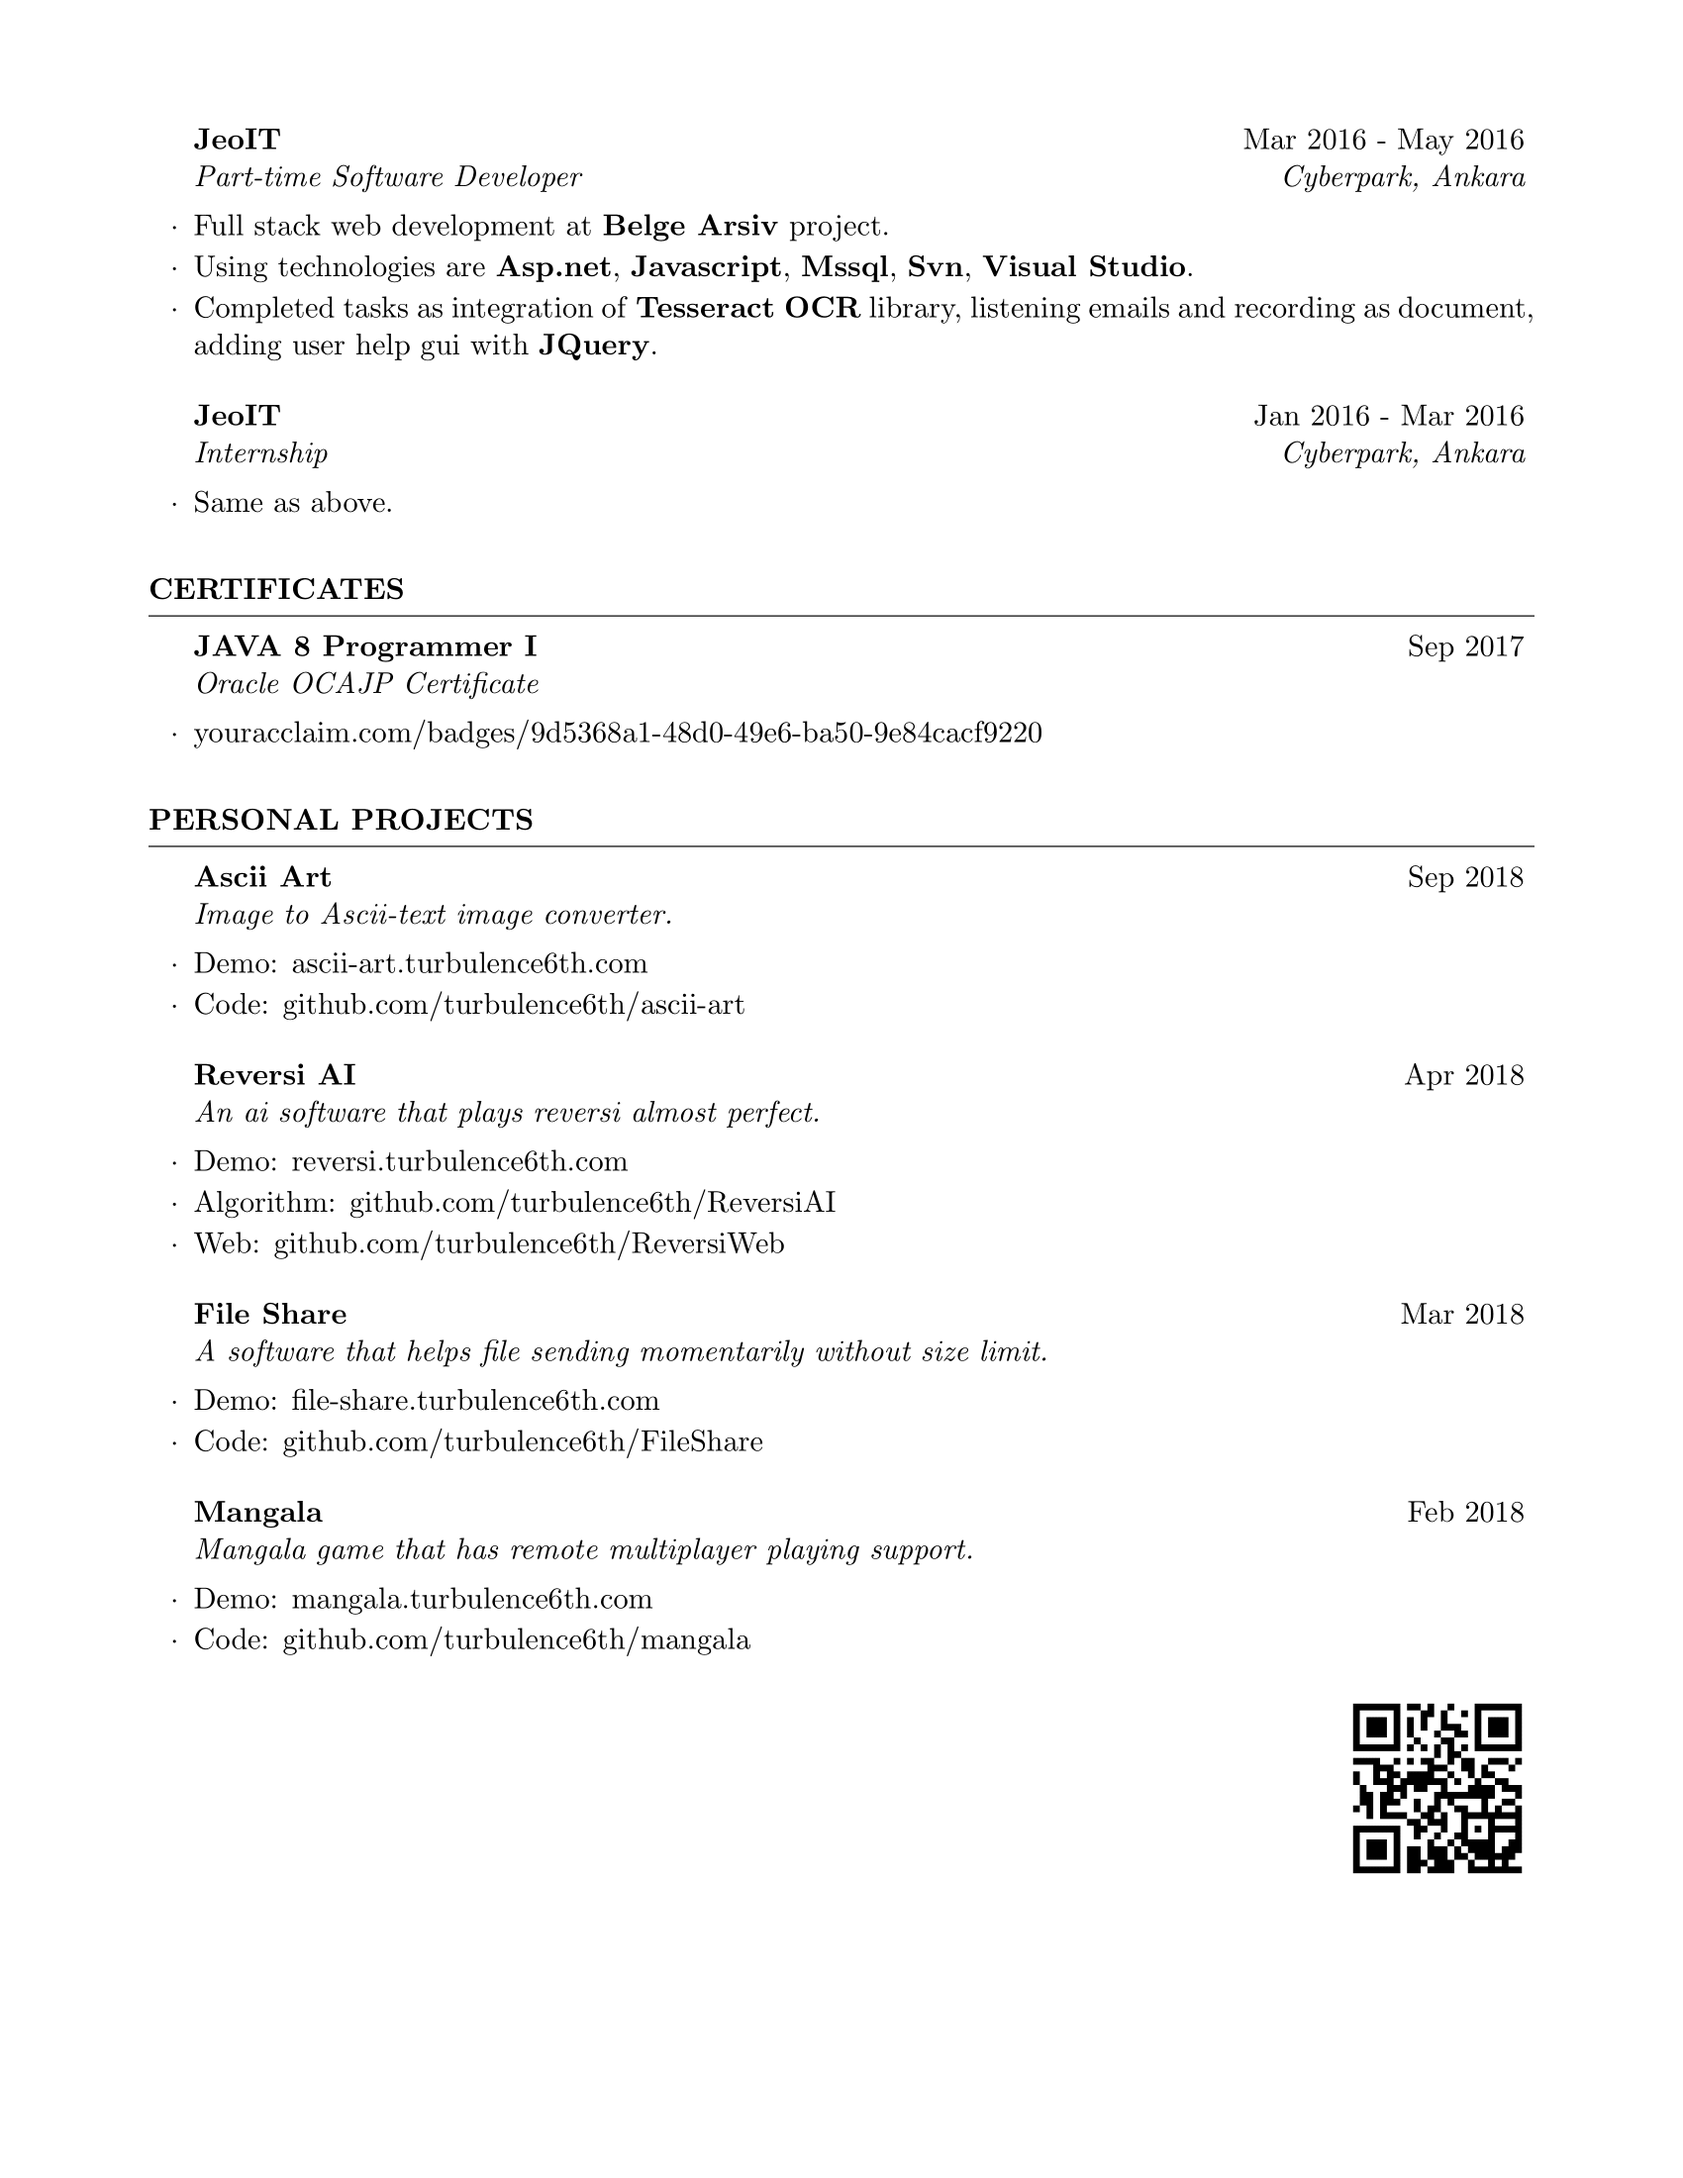
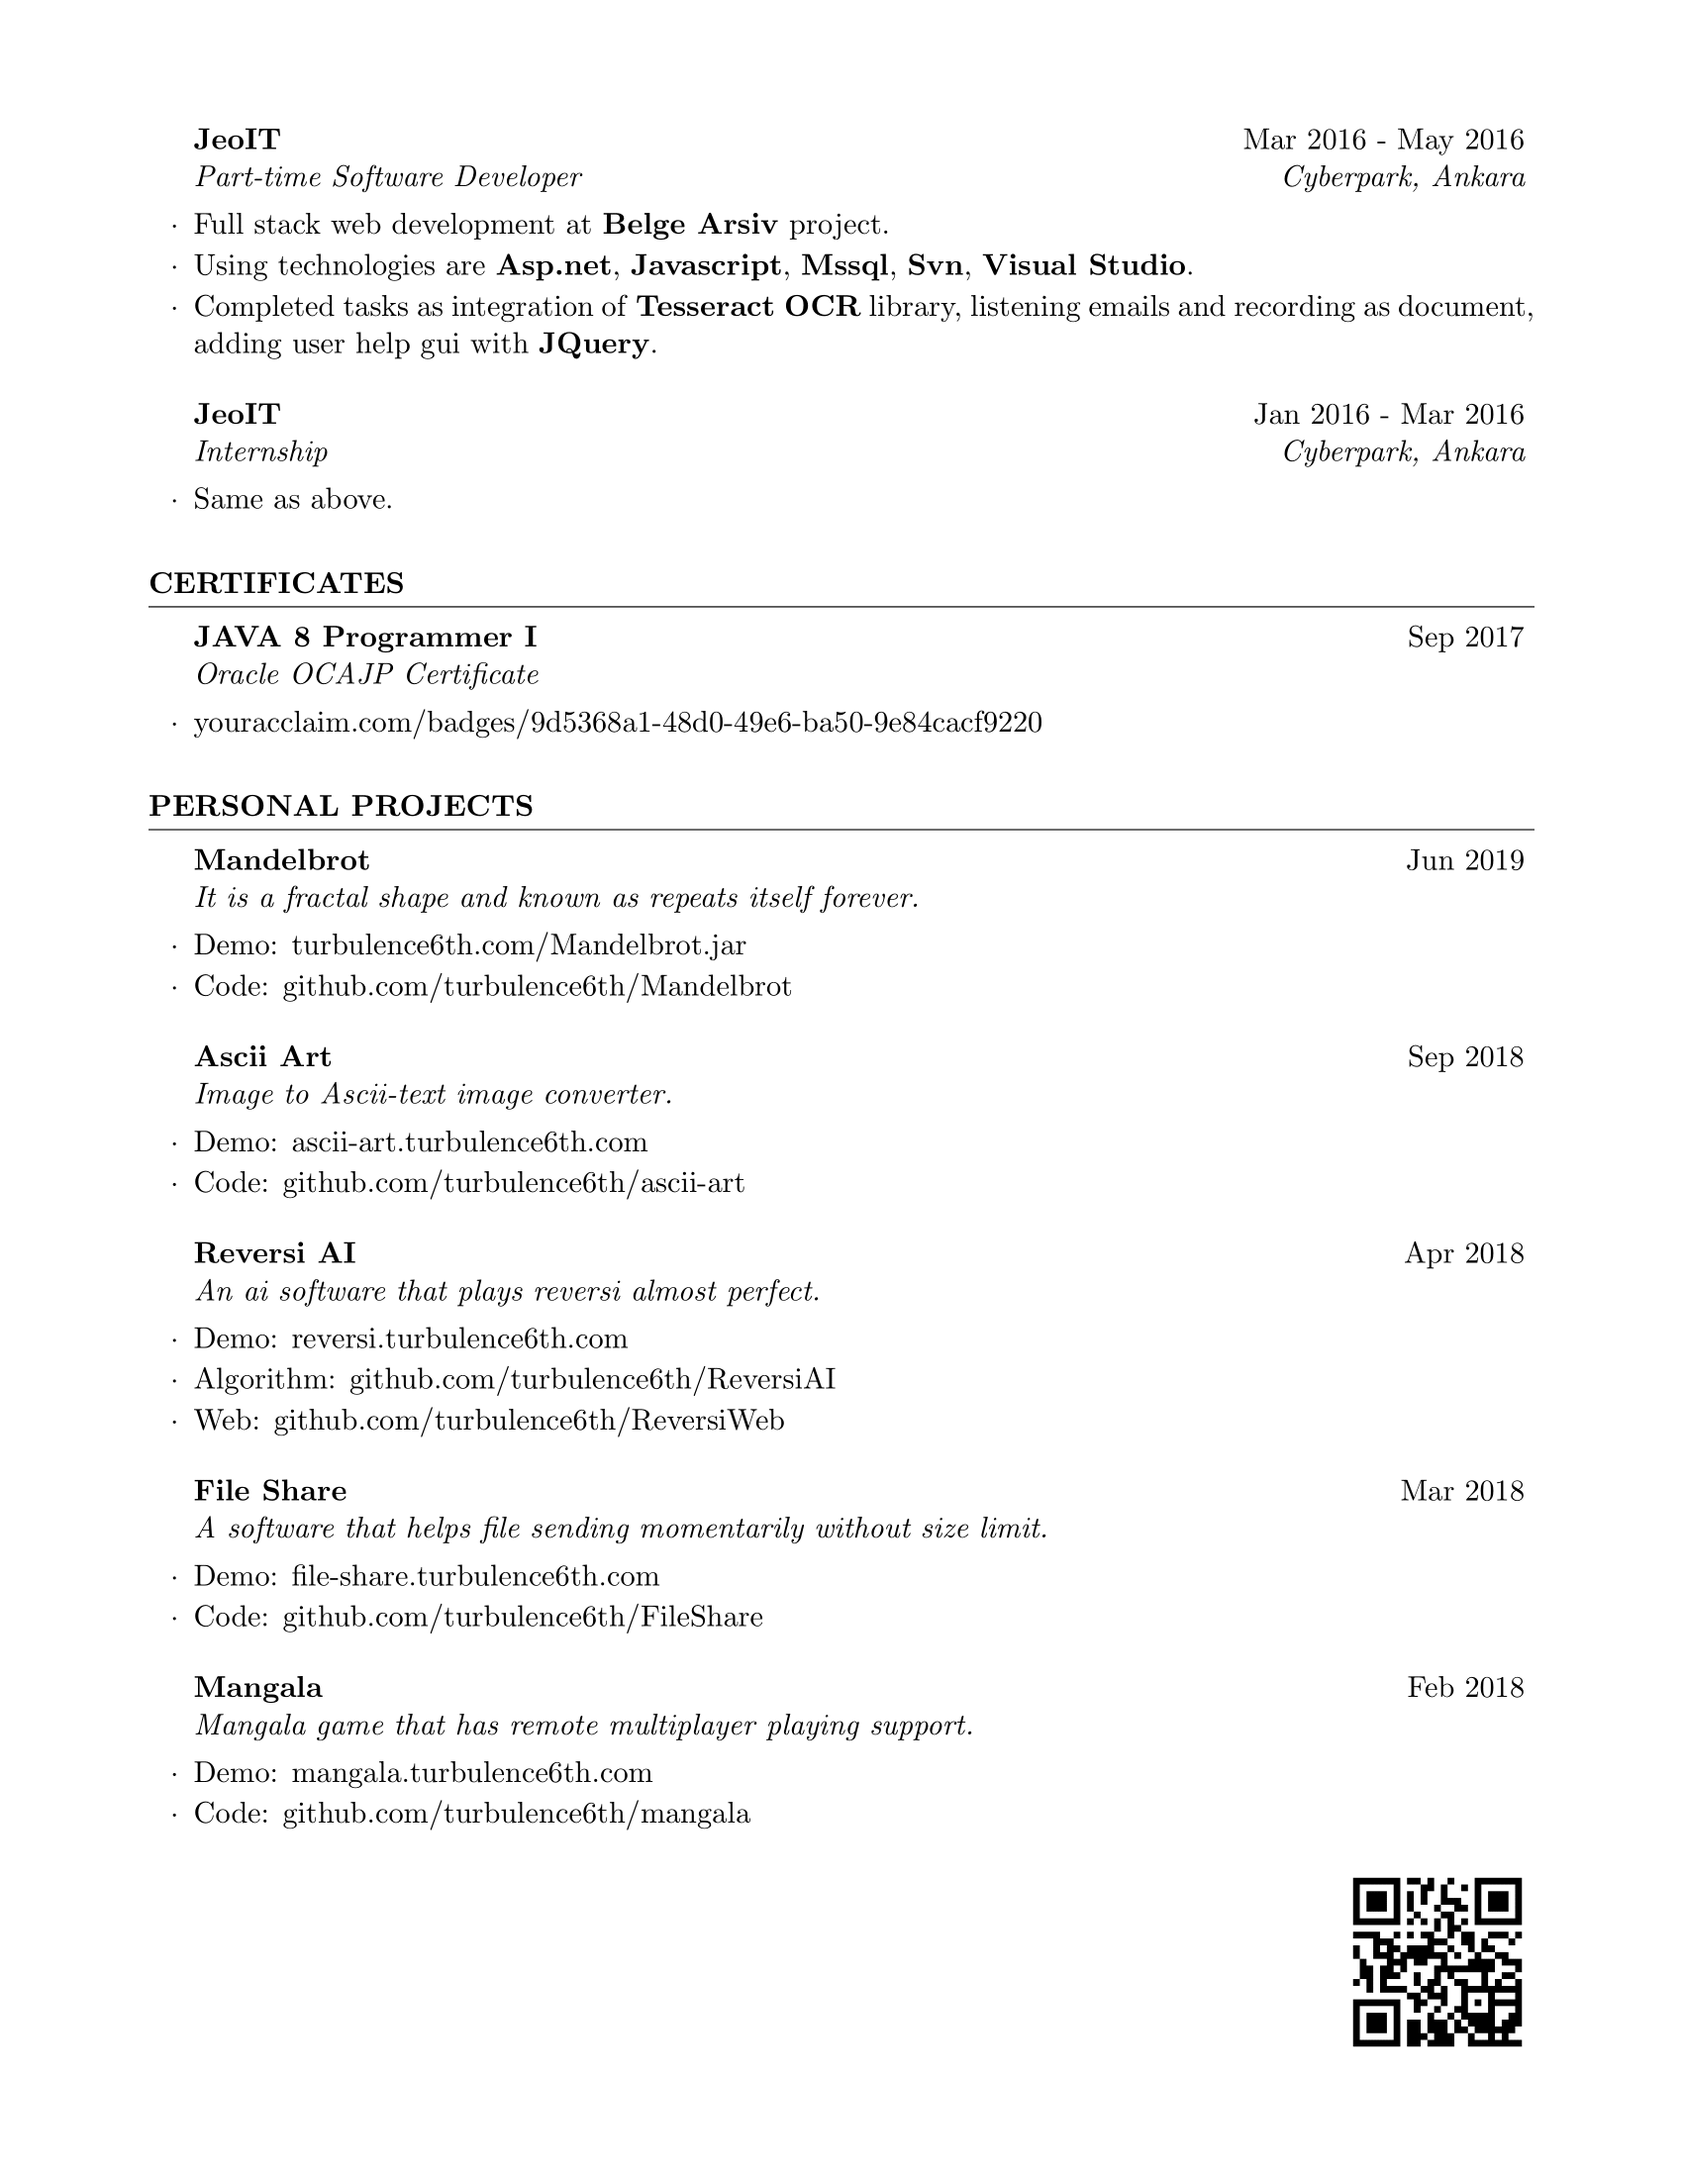
cv updated

diff --git a/src/main/resources/static/cv.tex b/src/main/resources/static/cv.tex
@@ -135,6 +135,11 @@ and \textbf{Debugging}.
 
 \begin{rSection}{Personal Projects}
 
+\begin{rSubsection}{Mandelbrot}{Jun 2019}{It is a fractal shape and known as repeats itself forever.}{}
+\item Demo: \href{http://turbulence6th.com/Mandelbrot.jar}{turbulence6th.com/Mandelbrot.jar}
+\item Code: \href{https://github.com/turbulence6th/Mandelbrot}{github.com/turbulence6th/Mandelbrot}
+\end{rSubsection}
+
 \begin{rSubsection}{Ascii Art}{Sep 2018}{Image to Ascii-text image converter.}{}
 \item Demo: \href{http://ascii-art.turbulence6th.com}{ascii-art.turbulence6th.com}
 \item Code: \href{https://github.com/turbulence6th/ascii-art}{github.com/turbulence6th/ascii-art}
